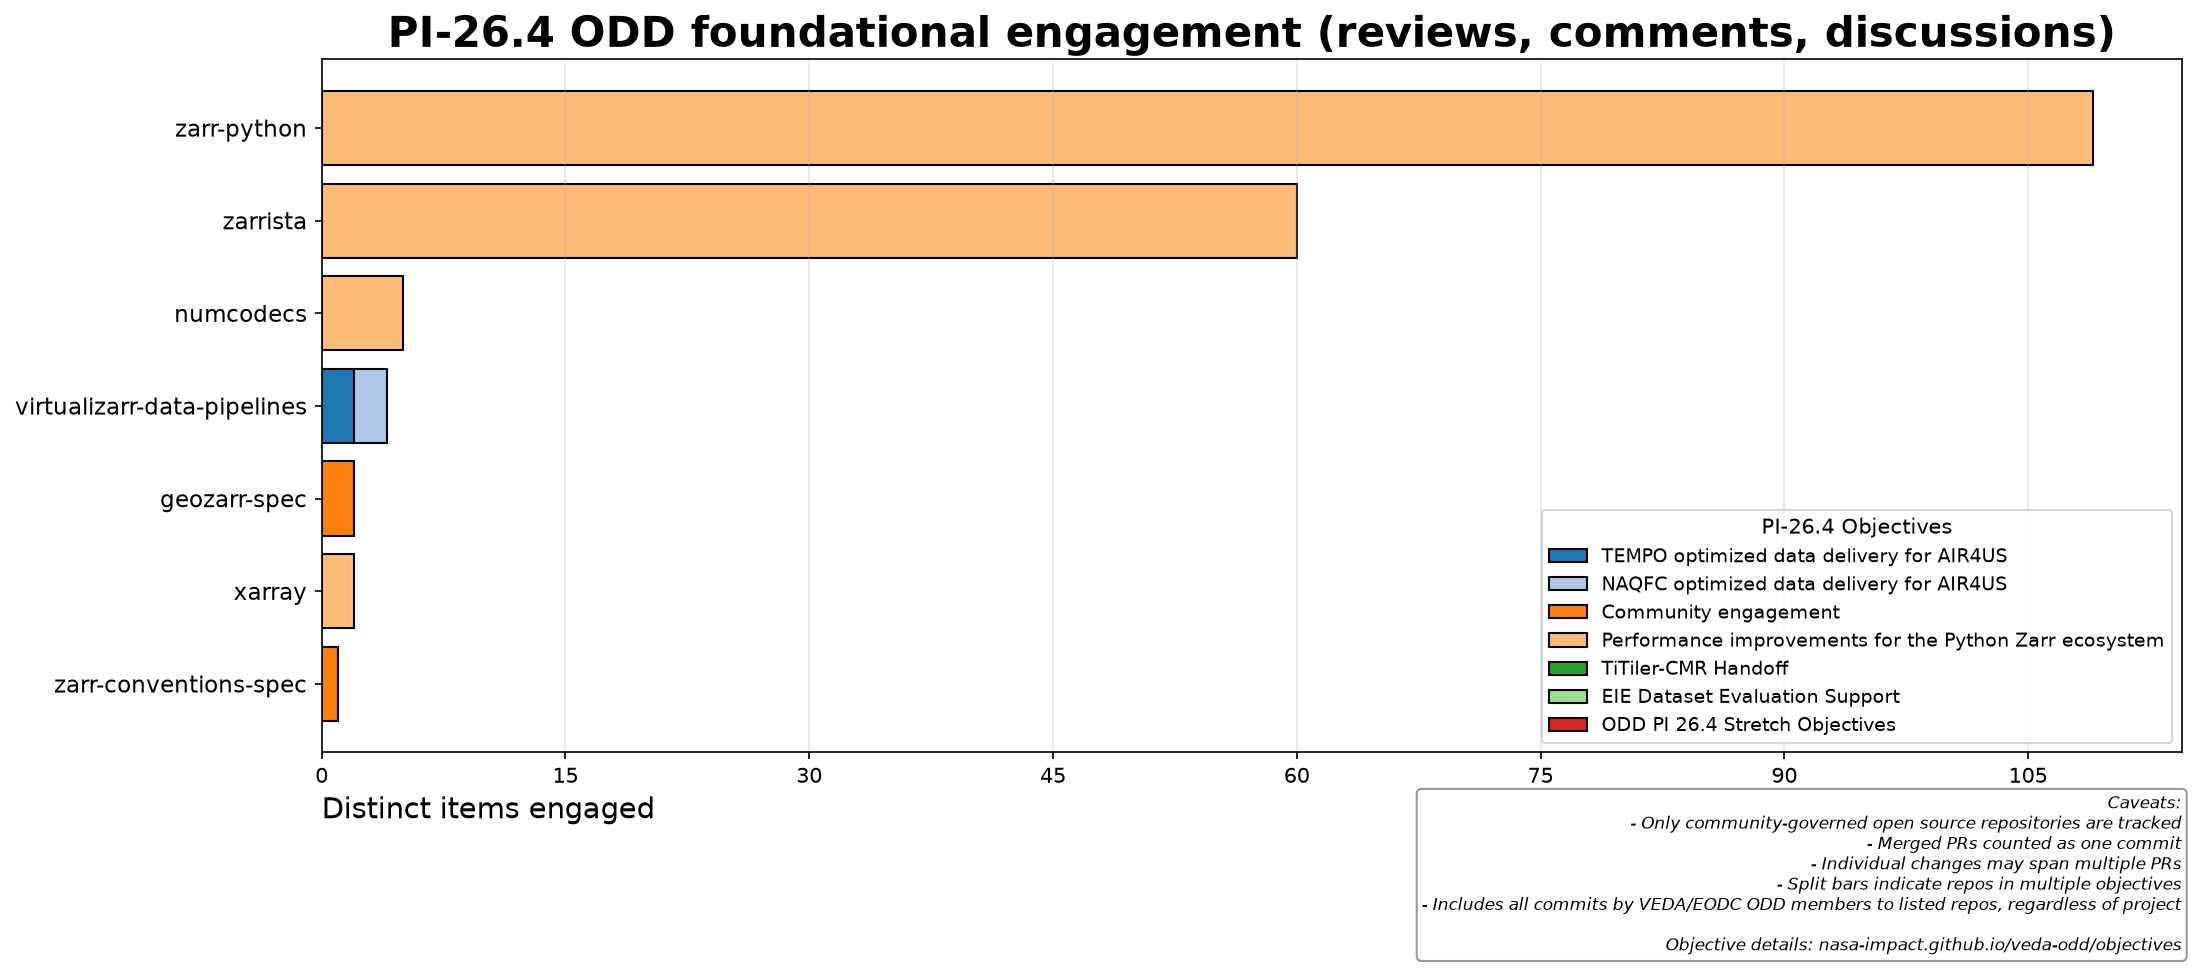
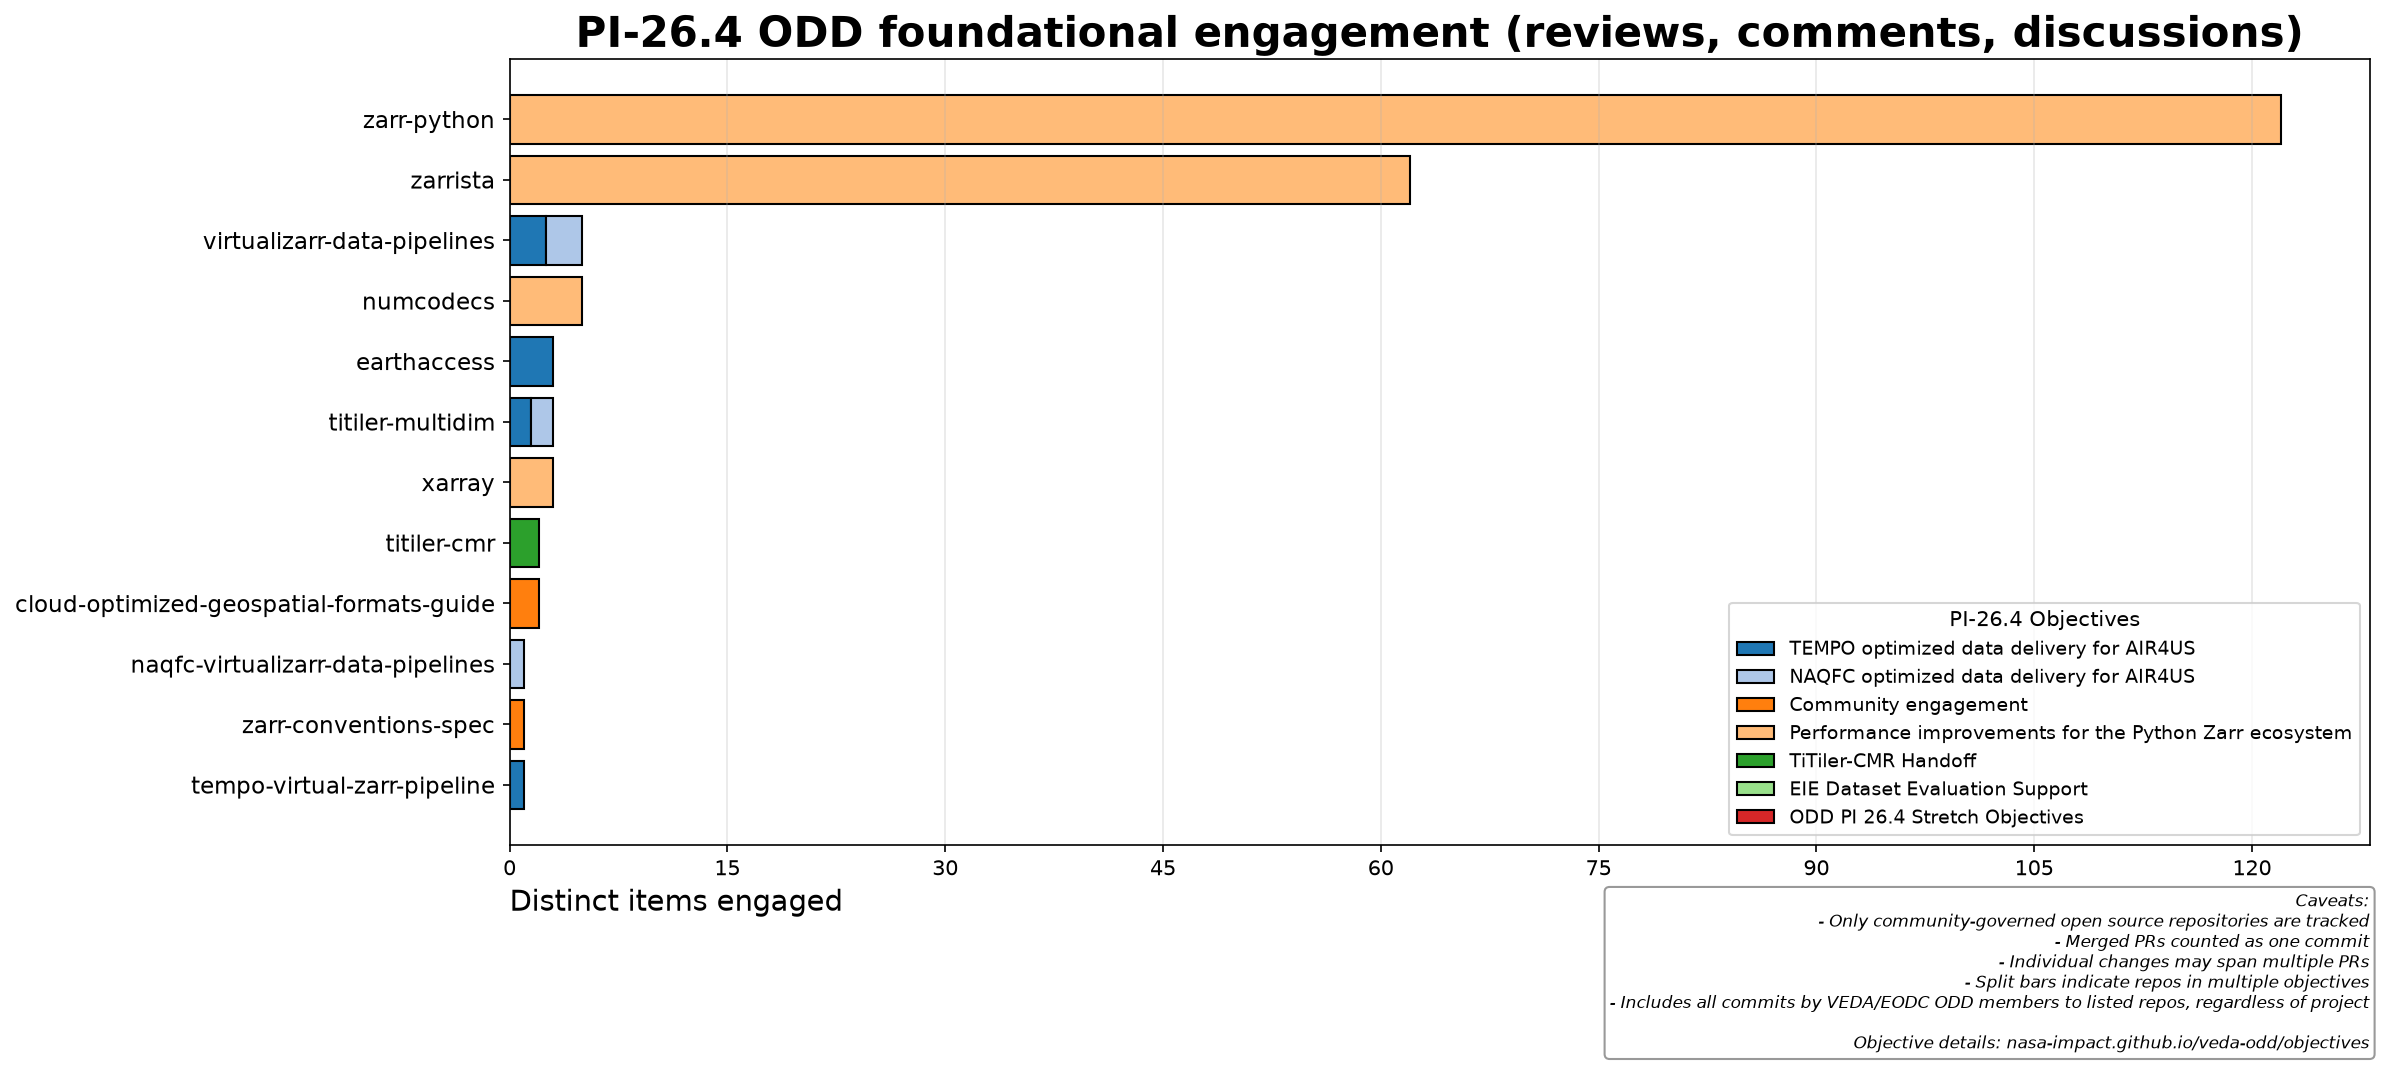
Update reports for 32770919912

Changed region(s): [[0.0, 0.0, 1.0, 1.0]]

diff --git a/docs/objectives.md b/docs/objectives.md
@@ -12,8 +12,8 @@ This page tracks quarterly objectives for the VEDA/EODC ODD team and the open-so
 
 | # | Objective | Contributors | Repos |
 |---|-----------|--------------|-------|
-| [#438](https://github.com/NASA-IMPACT/veda-odd/issues/438) | TEMPO optimized data delivery for AIR4US | maxrjones | virtualizarr, virtualizarr-data-pipelines |
-| [#439](https://github.com/NASA-IMPACT/veda-odd/issues/439) | NAQFC optimized data delivery for AIR4US | sharkinsspatial | virtualizarr, virtualizarr-data-pipelines |
+| [#438](https://github.com/NASA-IMPACT/veda-odd/issues/438) | TEMPO optimized data delivery for AIR4US | maxrjones | virtualizarr, virtualizarr-data-pipelines, earthaccess, tempo-virtual-zarr-pipeline, titiler-multidim, earthaccess-auth |
+| [#439](https://github.com/NASA-IMPACT/veda-odd/issues/439) | NAQFC optimized data delivery for AIR4US | sharkinsspatial | virtualizarr, virtualizarr-data-pipelines, naqfc-virtualizarr-data-pipelines, titiler-multidim |
 | [#440](https://github.com/NASA-IMPACT/veda-odd/issues/440) | Community engagement | maxrjones, abarciauskas-bgse, siddharth0248 | geozarr-spec, multiscales, proj, spatial, geozarr-examples, geozarr-toolkit, geozarr-site, template, zarr-conventions-spec, cloud-optimized-geospatial-formats-guide |
 | [#441](https://github.com/NASA-IMPACT/veda-odd/issues/441) | Performance improvements for the Python Zarr ecosystem | d-v-b, chuckwondo, kylebarron | zarr-python, numcodecs, xarray, zarrista |
 | [#442](https://github.com/NASA-IMPACT/veda-odd/issues/442) | TiTiler-CMR Handoff | hrodmn | titiler, titiler-cmr, titiler-lambda-layer, titiler-md-demo, rio-tiler |
